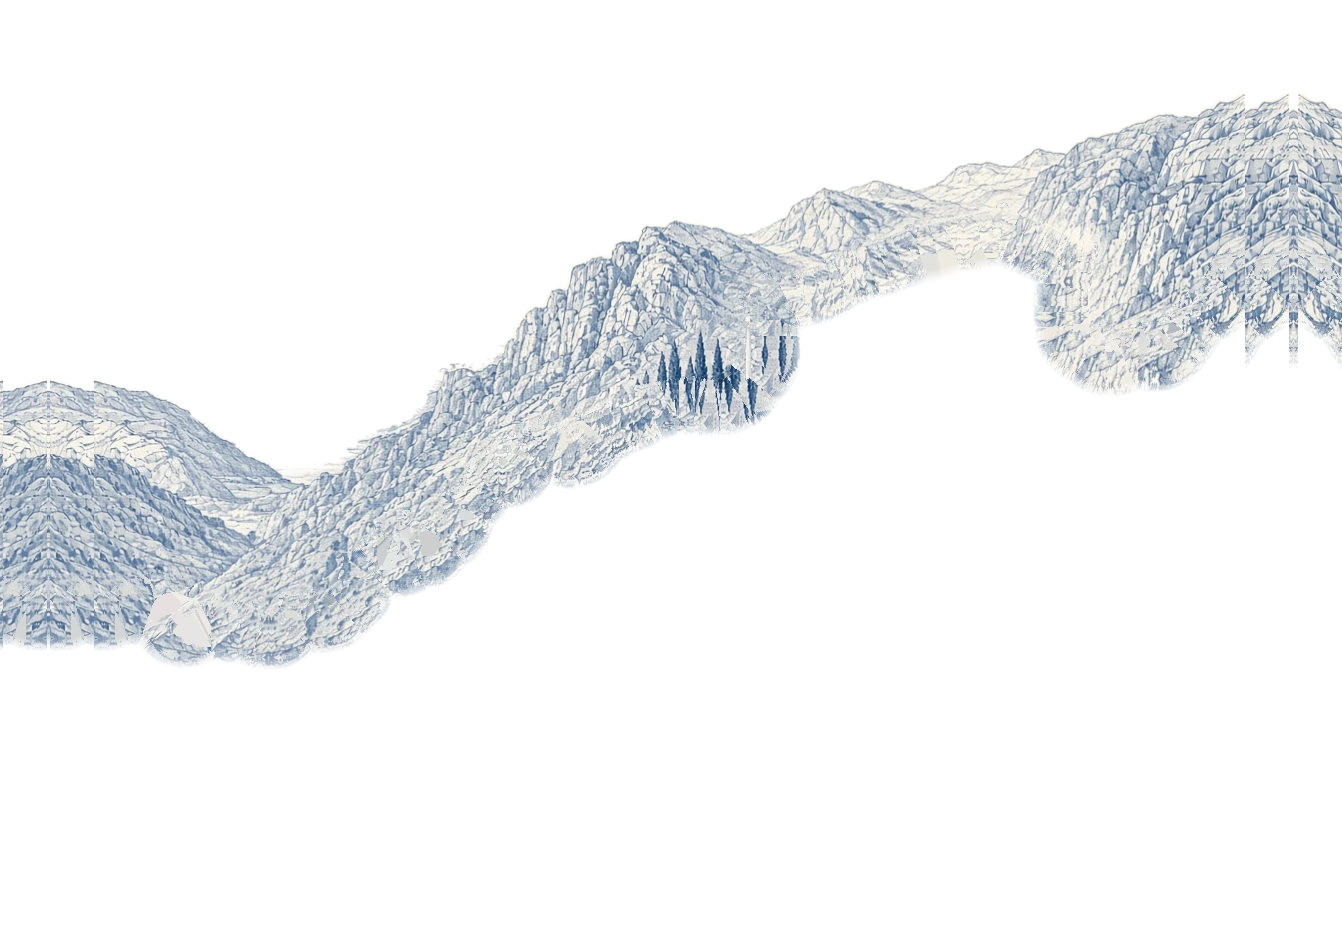
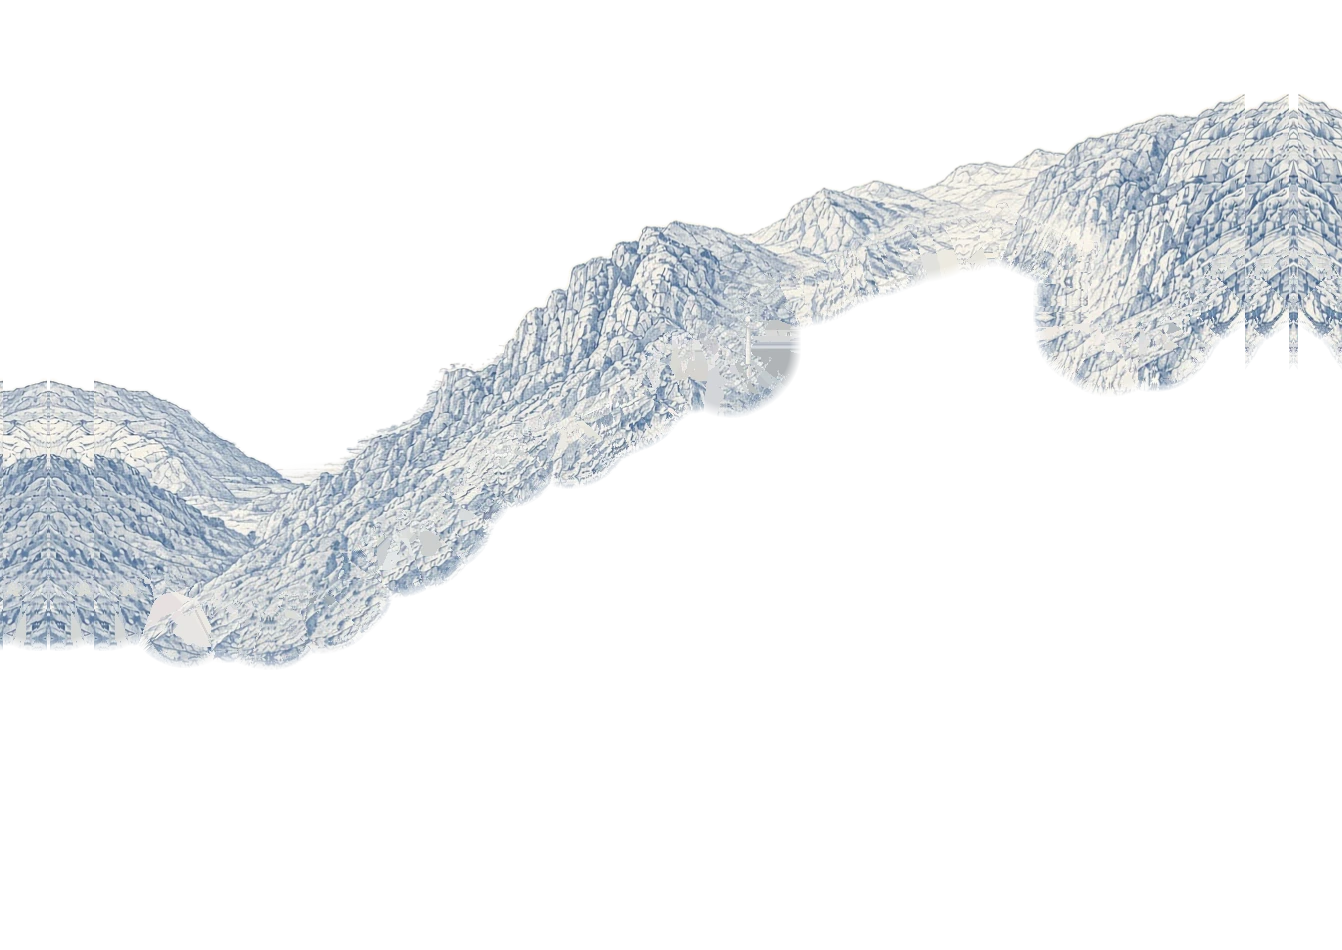
v7: keep remaining split trees whole; cache-bust assets

Changed region(s): [[0.4583, 0.3358, 0.611, 0.4579]]

diff --git a/index.html b/index.html
@@ -6,9 +6,9 @@
   <title>Roman Forum — Where History Still Speaks</title>
   <meta name="description" content="A visitor introduction to the Roman Forum: the valley of ruins in Rome, and the terraced sanctuary of Apollo at Delphi.">
   <meta name="theme-color" content="#fbf4eb">
-  <link rel="icon" href="assets/favicon.svg" type="image/svg+xml">
-  <link rel="stylesheet" href="css/styles.css">
-  <link rel="preload" as="image" href="assets/layers/forum-hero-flat.jpg" fetchpriority="high">
+  <link rel="icon" href="assets/favicon.svg?v=7" type="image/svg+xml">
+  <link rel="stylesheet" href="css/styles.css?v=7">
+  <link rel="preload" as="image" href="assets/layers/forum-hero-flat.jpg?v=7" fetchpriority="high">
 </head>
 <body>
   <a class="skip" href="#content">Skip to content</a>
@@ -16,12 +16,12 @@
   <section class="screen hero" aria-label="Roman Forum">
     <div class="card card-hero" data-parallax="hero">
       <div class="art" aria-hidden="true" data-source="1246 700" data-pad="96 96 96 96">
-        <img class="poster" src="assets/layers/forum-hero-flat.jpg" alt="" width="1246" height="700" fetchpriority="high">
-        <img class="layer" src="assets/layers/forum-hero-0.webp" data-depth="0" alt="" width="1438" height="892" decoding="async">
+        <img class="poster" src="assets/layers/forum-hero-flat.jpg?v=7" alt="" width="1246" height="700" fetchpriority="high">
+        <img class="layer" src="assets/layers/forum-hero-0.webp?v=7" data-depth="0" alt="" width="1438" height="892" decoding="async">
         <canvas class="sky" data-sky="hero"></canvas>
-        <img class="layer" src="assets/layers/forum-hero-1.webp" data-depth="0.33" alt="" width="1438" height="892" decoding="async">
-        <img class="layer" src="assets/layers/forum-hero-2.webp" data-depth="0.66" alt="" width="1438" height="892" decoding="async">
-        <img class="layer" src="assets/layers/forum-hero-3.webp" data-depth="1" alt="" width="1438" height="892" decoding="async">
+        <img class="layer" src="assets/layers/forum-hero-1.webp?v=7" data-depth="0.33" alt="" width="1438" height="892" decoding="async">
+        <img class="layer" src="assets/layers/forum-hero-2.webp?v=7" data-depth="0.66" alt="" width="1438" height="892" decoding="async">
+        <img class="layer" src="assets/layers/forum-hero-3.webp?v=7" data-depth="1" alt="" width="1438" height="892" decoding="async">
       </div>
 
       <header class="nav">
@@ -88,12 +88,12 @@
   <section class="screen delphi" id="delphi" aria-labelledby="delphi-title">
     <div class="card card-delphi" data-parallax="end">
       <div class="art art-delphi" data-source="1246 830" data-pad="48 24 48 96" role="img" aria-label="Steel-pen drawing of the sanctuary of Apollo at Delphi: the temple on stone terraces above a mountain valley, with cypresses, an olive tree, and a stair climbing the slope.">
-        <img class="poster" src="assets/layers/delphi-flat.jpg" alt="" width="1246" height="830" loading="lazy">
-        <img class="layer" src="assets/layers/delphi-0.webp" data-depth="0" alt="" width="1342" height="950" decoding="async" loading="lazy">
+        <img class="poster" src="assets/layers/delphi-flat.jpg?v=7" alt="" width="1246" height="830" loading="lazy">
+        <img class="layer" src="assets/layers/delphi-0.webp?v=7" data-depth="0" alt="" width="1342" height="950" decoding="async" loading="lazy">
         <canvas class="sky" data-sky="end" aria-hidden="true"></canvas>
-        <img class="layer" src="assets/layers/delphi-1.webp" data-depth="0.33" alt="" width="1342" height="950" decoding="async" loading="lazy">
-        <img class="layer" src="assets/layers/delphi-2.webp" data-depth="0.66" alt="" width="1342" height="950" decoding="async" loading="lazy">
-        <img class="layer" src="assets/layers/delphi-3.webp" data-depth="1" alt="" width="1342" height="950" decoding="async" loading="lazy">
+        <img class="layer" src="assets/layers/delphi-1.webp?v=7" data-depth="0.33" alt="" width="1342" height="950" decoding="async" loading="lazy">
+        <img class="layer" src="assets/layers/delphi-2.webp?v=7" data-depth="0.66" alt="" width="1342" height="950" decoding="async" loading="lazy">
+        <img class="layer" src="assets/layers/delphi-3.webp?v=7" data-depth="1" alt="" width="1342" height="950" decoding="async" loading="lazy">
       </div>
     </div>
     <footer class="colophon">
@@ -173,6 +173,6 @@
     </div>
   </dialog>
 
-  <script src="js/main.js"></script>
+  <script src="js/main.js?v=7"></script>
 </body>
 </html>

diff --git a/css/styles.css b/css/styles.css
@@ -1,6 +1,6 @@
 @font-face {
   font-family: "Source Serif 4";
-  src: url("../assets/fonts/SourceSerif4.ttf") format("truetype");
+  src: url("../assets/fonts/SourceSerif4.ttf?v=7") format("truetype");
   font-weight: 200 900;
   font-style: normal;
   font-display: swap;
@@ -8,7 +8,7 @@
 
 @font-face {
   font-family: "Outfit";
-  src: url("../assets/fonts/Outfit.ttf") format("truetype");
+  src: url("../assets/fonts/Outfit.ttf?v=7") format("truetype");
   font-weight: 100 900;
   font-style: normal;
   font-display: swap;

diff --git a/README.md b/README.md
@@ -33,7 +33,9 @@ Each card also carries a flat copy of the full drawing (`assets/layers/*-flat.jp
 
 On phones and tablets the gyroscope drives the parallax on both plates. The angle the phone is held at when the page opens counts as level, and that level slowly follows the hand over about five seconds, so any comfortable angle works. Tilt is read up to about 20 degrees each way, smoothed, and turned to match the screen in landscape. Android and other browsers start at once without asking. iPhone and iPad Safari only send motion readings after the page asks, and the request has to come from a tap, so the first tap anywhere on the page asks (the listener is passive and does not block scrolling or links). A small "Tap, then tilt your phone" hint shows until then and fades once tilting works or the request is answered. If motion access is refused or no readings arrive within about a second, a sideways finger drag on the Forum moves the layers instead, easing back when you let go. Vertical swipes always scroll the page (`touch-action: pan-y`), and finger drags are ignored while the gyroscope is in use.
 
-Where a nearer layer used to hide part of a farther one, the gap is filled with line work taken from the surrounding drawing. Each tree is kept whole in the layer of the ground it stands on, so a cypress or olive never splits between two layers as they move. Where the depth estimate cut a tree, `overrides` in the plate's JSON pull it back into one layer, and `snap_block` stops a tree behind a column from being dragged forward with the column.
+Where a nearer layer used to hide part of a farther one, the gap is filled with line work taken from the surrounding drawing. Each tree is kept whole in the layer of the ground it stands on, so a cypress or olive never splits between two layers as they move. Where the depth estimate cut a tree, `overrides` in the plate's JSON pull it back into one layer, and `snap_block` stops a tree behind a column from being dragged forward with the column. Behind a dense tree that moves forward, `underlay` keeps a copy of the tree's own foliage in the layer behind instead of a mirrored patch.
+
+Every stylesheet, script, font and image is linked with a version query (`?v=7`). Raise it on each release so browsers fetch the new layers instead of a cached copy.
 
 If the system asks for reduced motion, the layers stay still and the birds are drawn once, without moving.
 
